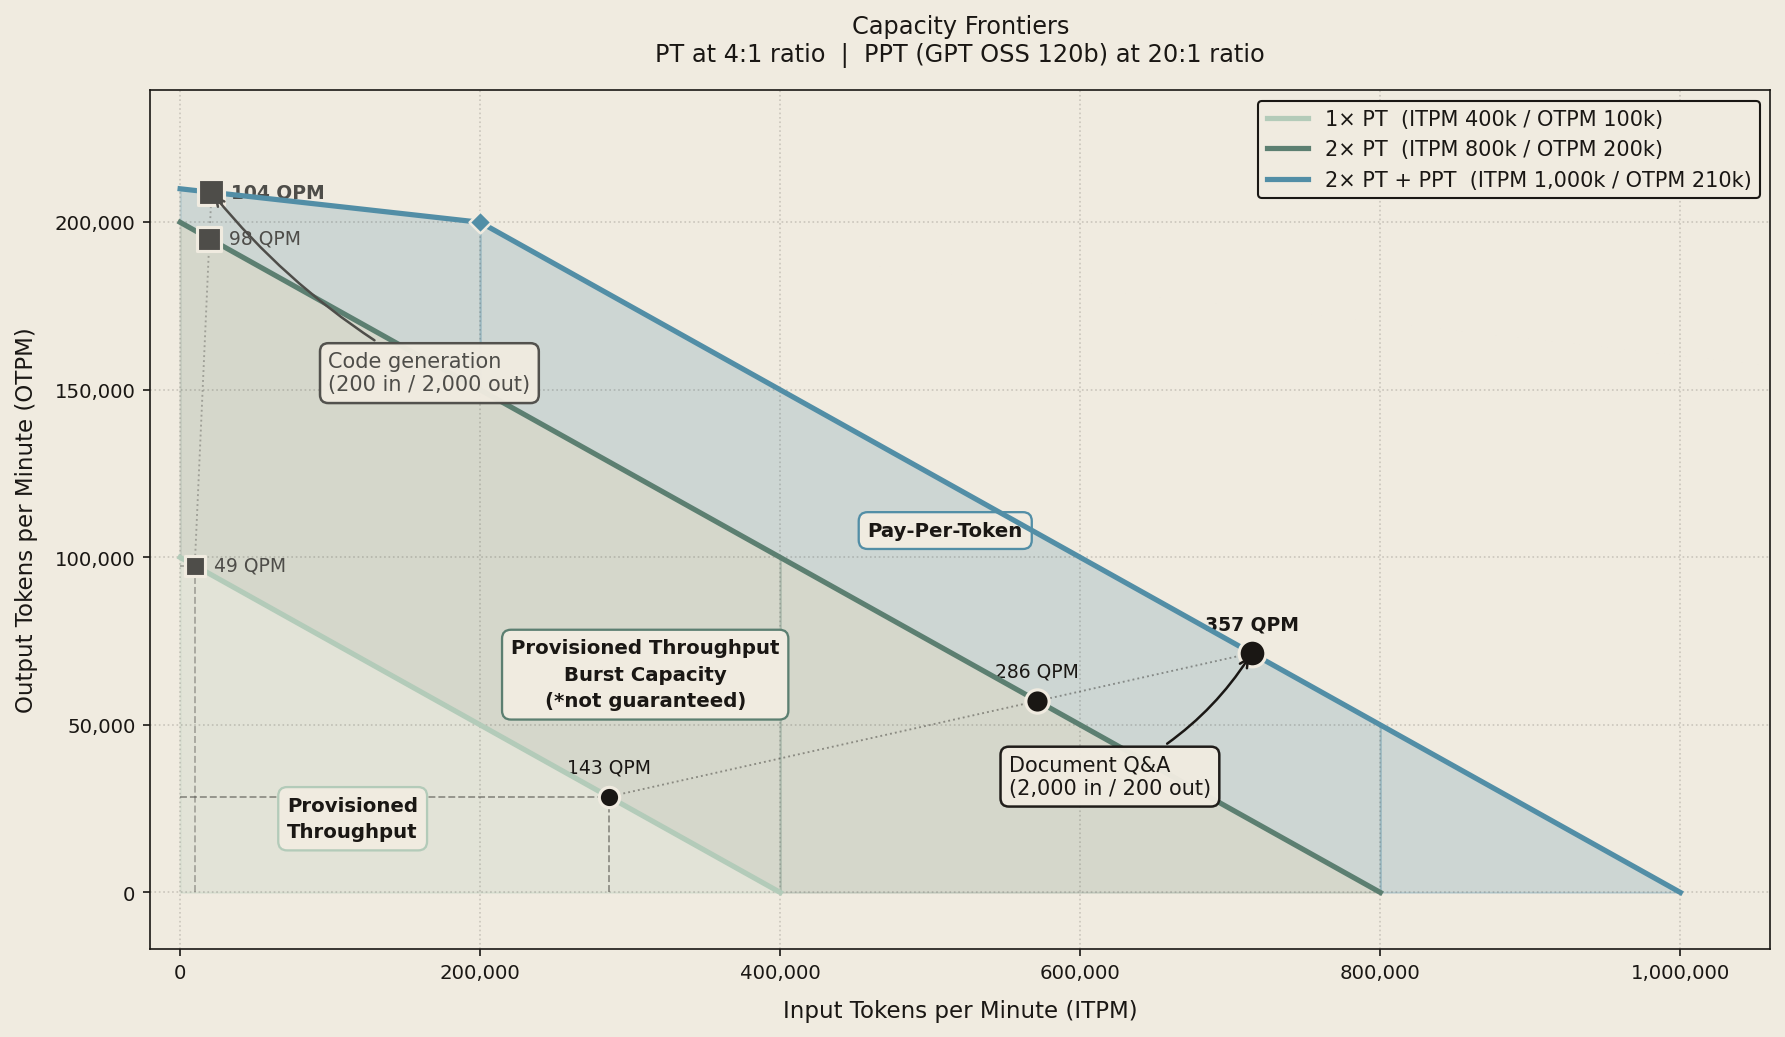
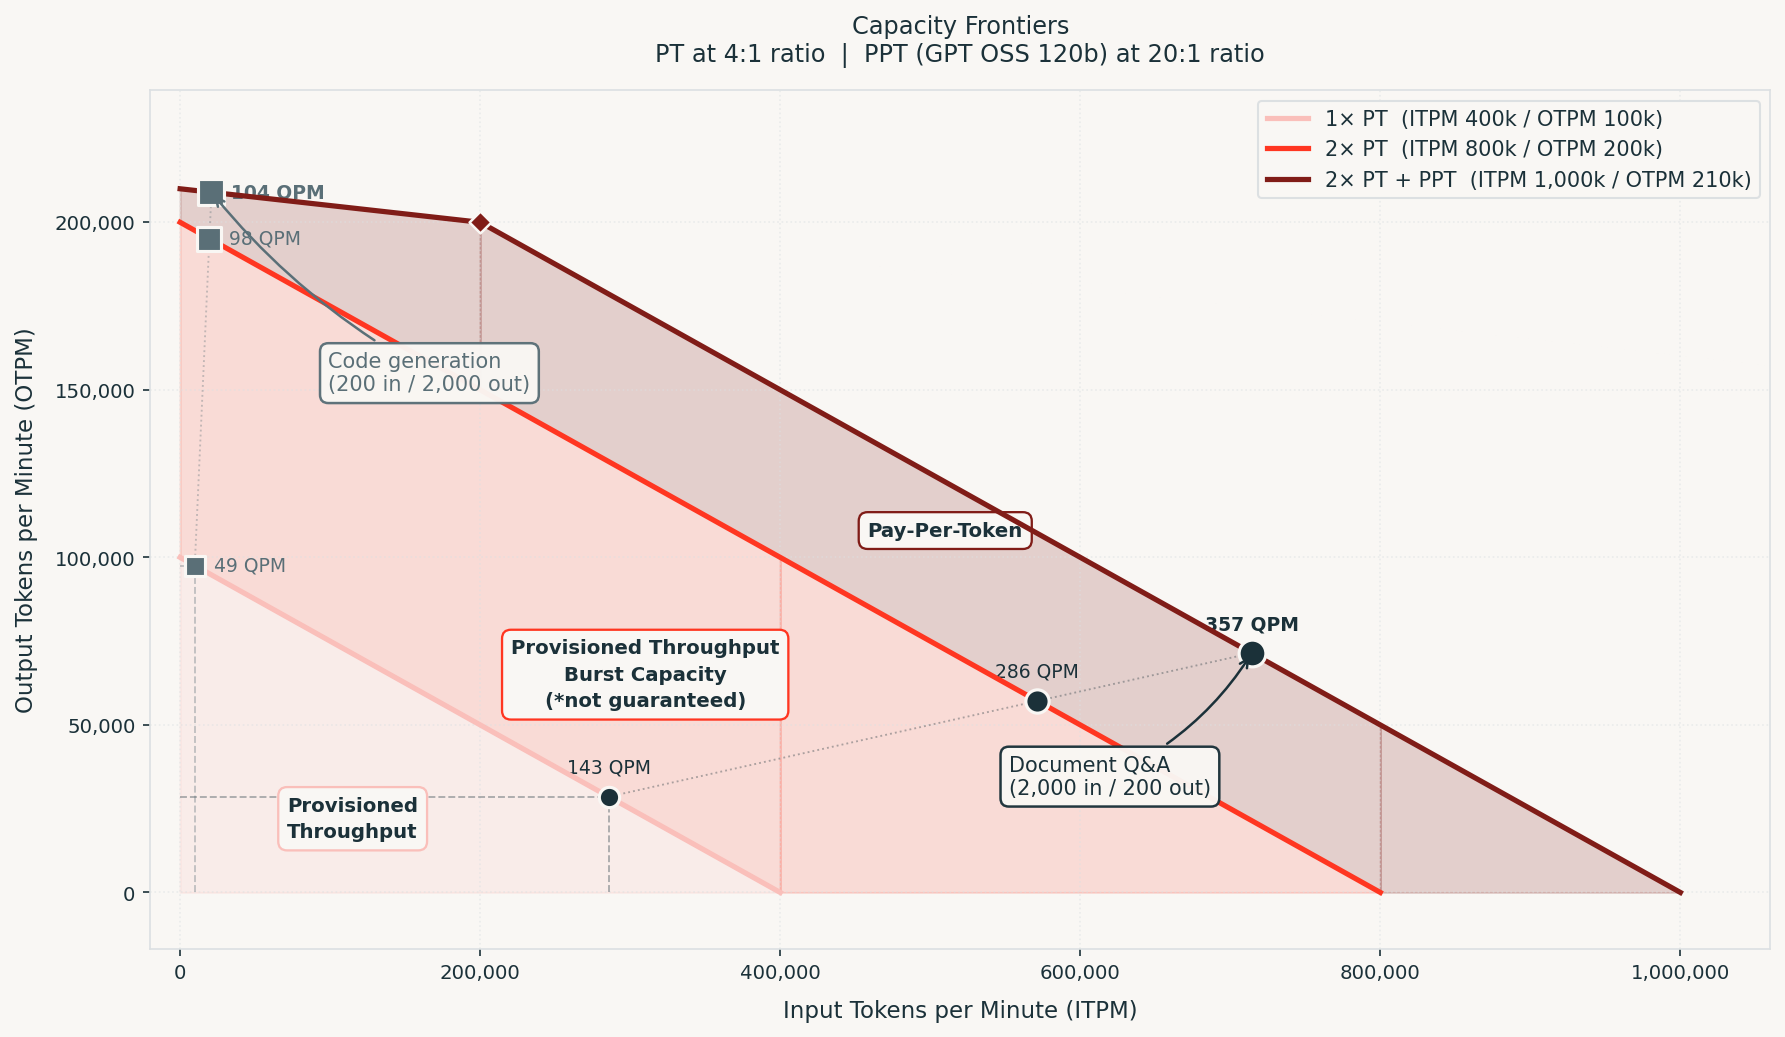
feat: rebuild capacity frontier chart with Databricks brand palette
Applies Lava 300/600/800 sequential scale to the three frontier lines
(light→dark = less→more capacity). Background updated to Oat Light,
axes to Navy 800, grid to Gray Lines.

diff --git a/production-llm-serving/_plot_frontier.py b/production-llm-serving/_plot_frontier.py
@@ -1,0 +1,182 @@
+import numpy as np
+import matplotlib.pyplot as plt
+import matplotlib.ticker as mticker
+from matplotlib import rcParams
+
+# ── Databricks palette ─────────────────────────────────────────────────────────
+BG          = "#F9F7F4"   # Oat Light — main surface
+INK         = "#1B3139"   # Navy 800 — text, axes, labels
+GRAY_TEXT   = "#5A6F77"   # Gray Text — secondary / muted
+GRAY_LINES  = "#DCE0E2"   # Gray Lines — grid, borders
+
+# Lava sequential scale (light → dark = less → more capacity)
+LAVA_300    = "#FABFBA"   # 1× PT (lightest)
+LAVA_600    = "#FF3621"   # 2× PT (primary)
+LAVA_800    = "#801C17"   # 2× PT + PPT (darkest)
+
+# ── Capacity parameters ────────────────────────────────────────────────────────
+PT_1X_ITPM, PT_1X_OTPM = 400_000, 100_000
+PT_2X_ITPM, PT_2X_OTPM = 800_000, 200_000
+PPT_ITPM,   PPT_OTPM   = 200_000,  10_000
+
+COMB_MAX_Y  = PT_2X_OTPM + PPT_OTPM
+COMB_KINK_X = PPT_ITPM
+COMB_KINK_Y = PT_2X_OTPM
+COMB_MAX_X  = PT_2X_ITPM + PPT_ITPM
+SLOPE2      = -COMB_KINK_Y / (COMB_MAX_X - COMB_KINK_X)
+
+workloads = [
+    {"name": "Document Q&A",   "tokens": "2,000 in / 200 out",
+     "input": 2_000, "output":   200, "color": INK,       "marker": "o",
+     "ann_pos": (0.53, 0.18), "ann_rad":  0.15},
+    {"name": "Code generation", "tokens": "200 in / 2,000 out",
+     "input":   200, "output": 2_000, "color": GRAY_TEXT, "marker": "s",
+     "ann_pos": (0.11, 0.65), "ann_rad": -0.10},
+]
+
+MAX_X, MAX_Y = COMB_MAX_X, COMB_MAX_Y
+
+rcParams["font.family"] = "sans-serif"
+fig, ax = plt.subplots(figsize=(12, 7))
+fig.patch.set_facecolor(BG)
+ax.set_facecolor(BG)
+for spine in ax.spines.values():
+    spine.set_edgecolor(GRAY_LINES)
+    spine.set_linewidth(0.8)
+ax.tick_params(colors=INK, labelsize=9.5)
+
+# ── Region fills ───────────────────────────────────────────────────────────────
+x_r1 = np.linspace(0, PT_1X_ITPM, 400)
+ax.fill_between(x_r1, PT_1X_OTPM * (1 - x_r1 / PT_1X_ITPM), 0,
+                alpha=0.18, color=LAVA_300, zorder=1)
+
+x_r2a = np.linspace(0, PT_1X_ITPM, 400)
+ax.fill_between(x_r2a,
+                PT_1X_OTPM * (1 - x_r2a / PT_1X_ITPM),
+                PT_2X_OTPM * (1 - x_r2a / PT_2X_ITPM),
+                alpha=0.14, color=LAVA_600, zorder=1)
+x_r2b = np.linspace(PT_1X_ITPM, PT_2X_ITPM, 400)
+ax.fill_between(x_r2b, 0, PT_2X_OTPM * (1 - x_r2b / PT_2X_ITPM),
+                alpha=0.14, color=LAVA_600, zorder=1)
+
+x_r3a = np.linspace(0, COMB_KINK_X, 400)
+ax.fill_between(x_r3a,
+                PT_2X_OTPM * (1 - x_r3a / PT_2X_ITPM),
+                COMB_MAX_Y - (PPT_OTPM / PPT_ITPM) * x_r3a,
+                alpha=0.18, color=LAVA_800, zorder=1)
+x_r3b = np.linspace(COMB_KINK_X, PT_2X_ITPM, 400)
+ax.fill_between(x_r3b,
+                PT_2X_OTPM * (1 - x_r3b / PT_2X_ITPM),
+                COMB_KINK_Y + SLOPE2 * (x_r3b - COMB_KINK_X),
+                alpha=0.18, color=LAVA_800, zorder=1)
+x_r3c = np.linspace(PT_2X_ITPM, COMB_MAX_X, 400)
+ax.fill_between(x_r3c, 0, COMB_KINK_Y + SLOPE2 * (x_r3c - COMB_KINK_X),
+                alpha=0.18, color=LAVA_800, zorder=1)
+
+# ── Region labels ──────────────────────────────────────────────────────────────
+label_box = dict(boxstyle="round,pad=0.45", fc=BG, lw=1.1)
+
+ax.text(115_000, 22_000, "Provisioned\nThroughput",
+        color=INK, fontsize=9.5, ha="center", va="center",
+        linespacing=1.5, fontweight="semibold",
+        bbox={**label_box, "ec": LAVA_300})
+
+ax.text(310_000, 65_000,
+        "Provisioned Throughput\nBurst Capacity\n(*not guaranteed)",
+        color=INK, fontsize=9.5, ha="center", va="center", linespacing=1.5,
+        fontweight="semibold",
+        bbox={**label_box, "ec": LAVA_600})
+
+ax.text(510_000, 108_000, "Pay-Per-Token",
+        color=INK, fontsize=9.5, ha="center", va="center",
+        fontweight="semibold",
+        bbox={**label_box, "ec": LAVA_800})
+
+# ── Frontier lines ─────────────────────────────────────────────────────────────
+ax.plot([0, PT_1X_ITPM], [PT_1X_OTPM, 0],
+        color=LAVA_300, lw=2.5, zorder=4,
+        label=f"1× PT  (ITPM {PT_1X_ITPM//1000:,}k / OTPM {PT_1X_OTPM//1000:,}k)")
+
+ax.plot([0, PT_2X_ITPM], [PT_2X_OTPM, 0],
+        color=LAVA_600, lw=2.5, zorder=4,
+        label=f"2× PT  (ITPM {PT_2X_ITPM//1000:,}k / OTPM {PT_2X_OTPM//1000:,}k)")
+
+ax.plot([0, COMB_KINK_X, COMB_MAX_X], [COMB_MAX_Y, COMB_KINK_Y, 0],
+        color=LAVA_800, lw=2.5, zorder=4,
+        label=f"2× PT + PPT  (ITPM {COMB_MAX_X//1000:,}k / OTPM {COMB_MAX_Y//1000:,}k)")
+
+ax.scatter([COMB_KINK_X], [COMB_KINK_Y], color=LAVA_800, s=55,
+           marker="D", zorder=5, edgecolors=BG, lw=1.2)
+
+# ── Per-workload operating points ──────────────────────────────────────────────
+def combined_intersect(n_in, n_out):
+    slope_wl = n_out / n_in
+    itpm1 = COMB_MAX_Y / (slope_wl + PPT_OTPM / PPT_ITPM)
+    if 0 <= itpm1 <= COMB_KINK_X:
+        return itpm1, slope_wl * itpm1
+    x = (COMB_KINK_Y - SLOPE2 * COMB_KINK_X) / (slope_wl - SLOPE2)
+    return x, slope_wl * x
+
+for wl in workloads:
+    n_in, n_out = wl["input"], wl["output"]
+    color = wl["color"]
+
+    qpm1 = 1 / (n_in / PT_1X_ITPM + n_out / PT_1X_OTPM)
+    x1, y1 = qpm1 * n_in, qpm1 * n_out
+
+    qpm2 = 1 / (n_in / PT_2X_ITPM + n_out / PT_2X_OTPM)
+    x2, y2 = qpm2 * n_in, qpm2 * n_out
+
+    x3, y3 = combined_intersect(n_in, n_out)
+    qpm3 = x3 / n_in
+
+    ax.plot([x1, x1], [0,  y1], color=color, lw=0.9, ls="--", alpha=0.35, zorder=2)
+    ax.plot([0,  x1], [y1, y1], color=color, lw=0.9, ls="--", alpha=0.35, zorder=2)
+    ax.plot([x1, x2, x3], [y1, y2, y3], color=color, lw=0.9, ls=":", alpha=0.35, zorder=2)
+
+    for x, y, s in [(x1, y1, 95), (x2, y2, 125), (x3, y3, 165)]:
+        ax.scatter(x, y, color=color, marker=wl["marker"],
+                   s=s, zorder=5, edgecolors=BG, lw=1.5)
+
+    is_near_yaxis = x1 < MAX_X * 0.05
+    for x, y, qpm, fw in [(x1, y1, qpm1, "normal"),
+                           (x2, y2, qpm2, "normal"),
+                           (x3, y3, qpm3, "semibold")]:
+        if is_near_yaxis:
+            ax.text(x + MAX_X * 0.013, y, f"{qpm:.0f} QPM",
+                    color=color, fontsize=9, ha="left", va="center", fontweight=fw)
+        else:
+            ax.text(x, y + MAX_Y * 0.028, f"{qpm:.0f} QPM",
+                    color=color, fontsize=9, ha="center", va="bottom", fontweight=fw)
+
+    ax.annotate(
+        f"{wl['name']}\n({wl['tokens']})",
+        xy=(x3, y3),
+        xytext=wl["ann_pos"], textcoords="axes fraction",
+        fontsize=10, color=color,
+        arrowprops=dict(arrowstyle="->", color=color, lw=1.2,
+                        connectionstyle=f"arc3,rad={wl['ann_rad']}"),
+        bbox=dict(boxstyle="round,pad=0.4", fc=BG, ec=color, alpha=0.97, lw=1.2),
+        zorder=6,
+    )
+
+# ── Axes + legend ──────────────────────────────────────────────────────────────
+ax.set_xlabel("Input Tokens per Minute (ITPM)", fontsize=11, color=INK, labelpad=8)
+ax.set_ylabel("Output Tokens per Minute (OTPM)", fontsize=11, color=INK, labelpad=8)
+ax.set_title(
+    "Capacity Frontiers\n"
+    "PT at 4:1 ratio  |  PPT (GPT OSS 120b) at 20:1 ratio",
+    fontsize=11.5, pad=14, color=INK,
+)
+ax.set_xlim(-MAX_X * 0.02, MAX_X * 1.06)
+ax.set_ylim(-MAX_Y * 0.08, MAX_Y * 1.14)
+ax.xaxis.set_major_formatter(mticker.FuncFormatter(lambda v, _: f"{int(v):,}"))
+ax.yaxis.set_major_formatter(mticker.FuncFormatter(lambda v, _: f"{int(v):,}"))
+ax.grid(True, alpha=0.5, linestyle=":", color=GRAY_LINES)
+ax.legend(fontsize=10, loc="upper right", framealpha=1.0,
+          facecolor=BG, edgecolor=GRAY_LINES, labelcolor=INK)
+
+plt.tight_layout()
+out = "/Users/jon.cheung/GitHub/databricks-blueprints/production-llm-serving/pt_capacity_frontier.png"
+plt.savefig(out, dpi=150, bbox_inches="tight", facecolor=BG)
+print(f"Saved to {out}")
